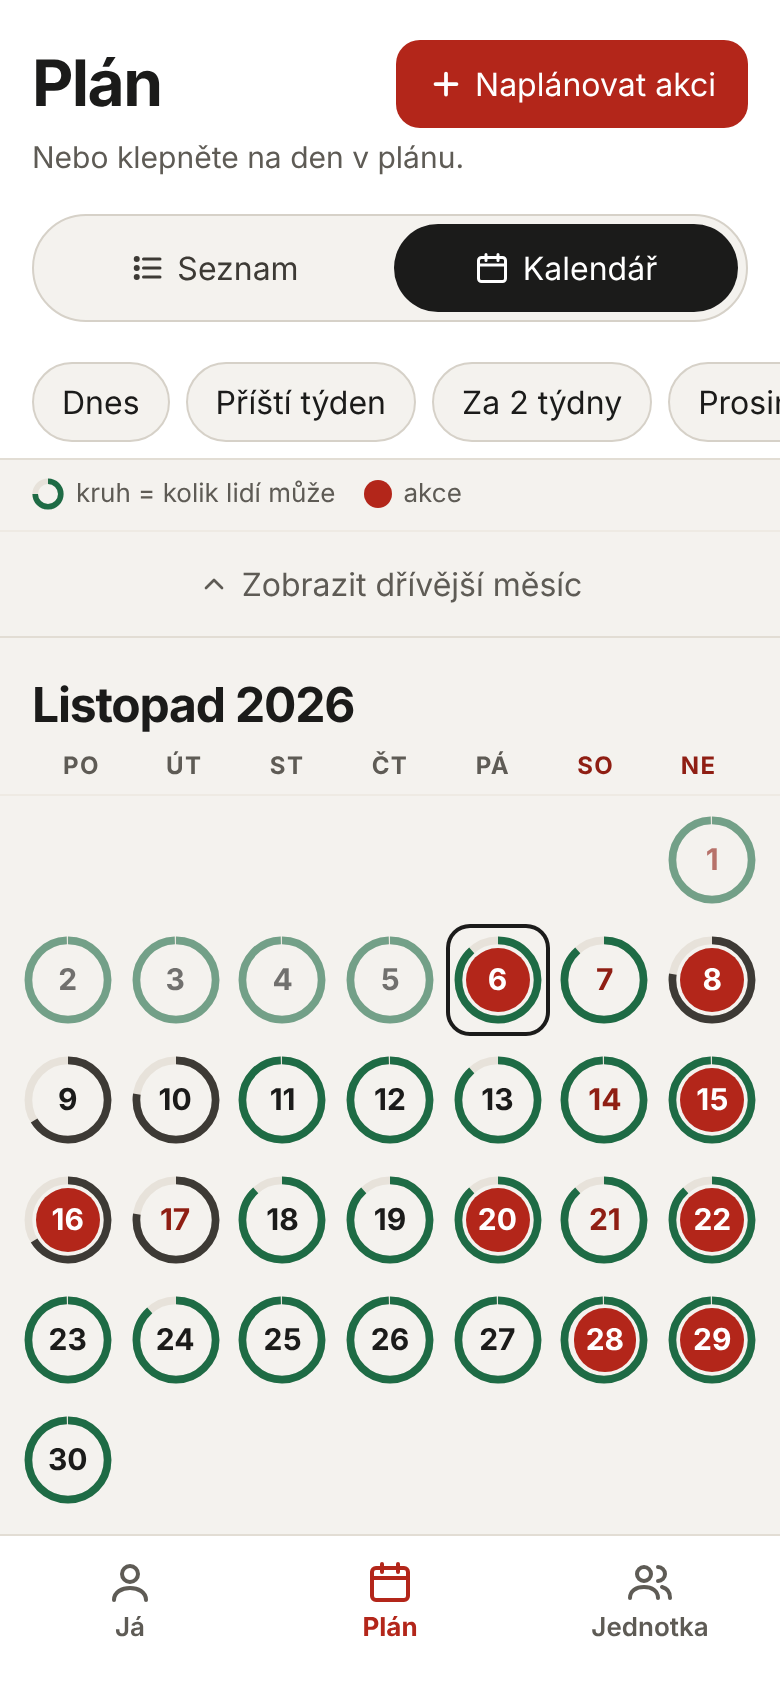
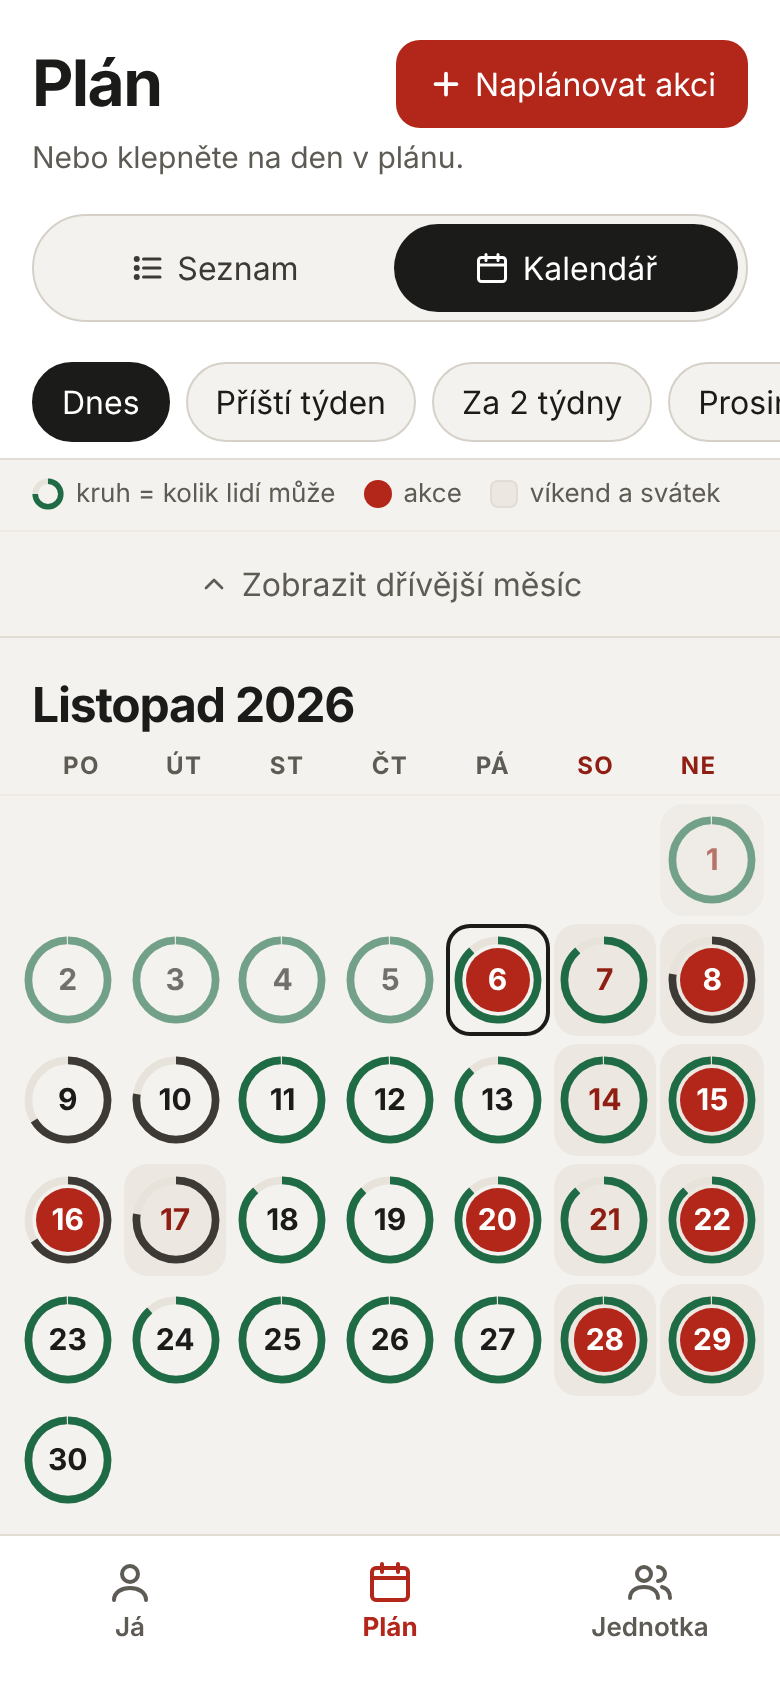
Tint weekends and public holidays in the calendar view
Weekend and holiday cells get the same tint as weekend rows in the list (red
numbers were easy to miss under the rings), desktop cells show the holiday's
name, and the legend explains the tint. README, HANDOVER and the calendar
screenshot updated.

Claude-Session: https://claude.ai/code/session_01Tw2HyHYmKH6eg7kEzs7mtr

Changed region(s): [[0.0308, 0.2156, 0.2154, 0.2773], [0.6769, 0.2773, 0.9231, 0.3081]]

diff --git a/src/lib/components/CalendarView.svelte b/src/lib/components/CalendarView.svelte
@@ -82,7 +82,9 @@
 		class="flex min-h-[3.25rem] min-w-0 flex-col items-center gap-1 rounded-xl px-0.5 py-1.5 lg:min-h-[6.5rem] {key ===
 		selected
 			? 'bg-ink/10'
-			: 'hover:bg-ink/5'} {key === today ? 'ring-2 ring-ink ring-inset' : ''} {key < today
+			: wd >= 5 || hol
+				? 'bg-weekend hover:bg-ink/10'
+				: 'hover:bg-ink/5'} {key === today ? 'ring-2 ring-ink ring-inset' : ''} {key < today
 			? 'opacity-60'
 			: ''}"
 		onclick={() => onselect(key)}
@@ -111,7 +113,10 @@
 						: ''}">{parseKey(key).getDate()}</span
 			>
 		</span>
-		<!-- Wide screens have room for the count and the events' names. -->
+		<!-- Wide screens have room for the holiday, the count and the events' names. -->
+		{#if hol}
+			<span class="hidden w-full truncate text-xs font-semibold text-accent-dark lg:block">{hol}</span>
+		{/if}
 		<span class="hidden text-xs font-semibold text-muted lg:block"
 			>{av.available.length}/{av.total}</span
 		>

diff --git a/src/routes/+page.svelte b/src/routes/+page.svelte
@@ -582,6 +582,9 @@
 					>kruh = kolik lidí může</span
 				>
 				<span class="flex items-center gap-1.5"><span class="size-3.5 rounded-full bg-accent"></span>akce</span>
+				<span class="flex items-center gap-1.5"
+					><span class="size-3.5 rounded border border-line bg-weekend"></span>víkend a svátek</span
+				>
 			{:else}
 				<span class="flex items-center gap-1.5"><span class="size-3.5 rounded bg-[#1F4E8C]"></span>může</span>
 				<span class="flex items-center gap-1.5"><span class="size-3.5 rounded bg-off"></span>nepřítomen</span>

diff --git a/HANDOVER.md b/HANDOVER.md
@@ -104,7 +104,8 @@ direction; older rows are superseded.
     the same `start`/`end` range, infinite scroll and jump buttons as the list.
     Each day is a circle whose SVG ring fills with available/total (full ring =
     everyone; colour like the count); event days have a filled red circle,
-    today is outlined, past days dimmed. Desktop cells also show the count and
+    today is outlined, past days dimmed; weekends and public holidays have a
+    tinted cell and red number (the holiday's name on desktop). Desktop cells also show the count and
     up to two event names. The Vše/Víkendy/Akce filter applies to the list only.
     Jumps and the lit jump button use `[data-top]` (a day row in the list, a
     week row in the calendar). Switching keeps the position.

diff --git a/README.md b/README.md
@@ -56,7 +56,8 @@ posouvání plánu.
 **Kalendář.** Přepínačem **Seznam / Kalendář** nahoře se plán ukáže jako běžný měsíční
 kalendář (dny v týdnu ve sloupcích, týdny v řádcích, měsíce pod sebou). Kruh kolem
 každého dne ukazuje, kolik lidí může: celý kruh = všichni, půlka = polovina. Dny s akcí
-mají červené kolečko, dnešek je v rámečku. Klepnutím na den se otevře jeho přehled.
+mají červené kolečko, dnešek je v rámečku. Víkendy a státní svátky mají podbarvené
+políčko a červené číslo, na počítači je u svátku i jeho název. Klepnutím na den se otevře jeho přehled.
 Telefon si zvolené zobrazení zapamatuje.
 
 **Den.** Klepnutím na den se otevře přehled: kdo může, kdo ne a proč (např.
